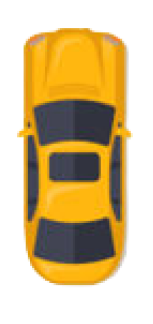
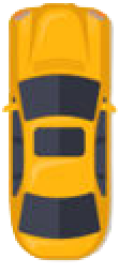
add images

diff --git a/car.js b/car.js
@@ -1,10 +1,9 @@
 class Car {
-   constructor(x, y, width, height, controlType, maxSpeed = 3) {
+   constructor(x, y, width, height, controlType, maxSpeed = 3, color = "blue") {
       this.x = x;
       this.y = y;
       this.width = width;
       this.height = height;
-      this.speedArray = [];
 
       this.speed = 0;
       this.acceleration = 0.08;
@@ -22,14 +21,35 @@ class Car {
       }
       this.polygon = this.#createPolygon();
       this.controls = new Controls(controlType);
+
+      this.img = new Image();
+      if (controlType !== "DUMMY") {
+         this.img.src = "./images/Auto.png";
+         console.log(this.controlType);
+      } else {
+         this.img.src = `./images/car (${Math.round(1+Math.random()*27)}).png`;
+      }
+      this.mask = document.createElement("canvas");
+      this.mask.width = width;
+      this.mask.height = height;
+
+      const maskCtx = this.mask.getContext("2d");
+      this.img.onload = () => {
+         maskCtx.fillStyle = color;
+         maskCtx.rect(0, 0, this.width, this.height);
+         maskCtx.fill();
+
+         maskCtx.globalCompositeOperation = "destination-atop";
+         maskCtx.drawImage(this.img, 0, 0, this.width, this.height);
+      };
    }
 
    update(roadBorders, traffic) {
       if (!this.damaged) {
          this.#move();
          this.polygon = this.#createPolygon();
-         this.damaged = this.#assessDamage(roadBorders, traffic);
       }
+      this.damaged = this.#assessDamage(roadBorders, traffic);
       if (this.sensor) {
          this.sensor.update(roadBorders, traffic);
          const offsets = this.sensor.readings.map((s) =>
@@ -44,8 +64,6 @@ class Car {
             this.controls.reverse = outputs[3];
          }
       }
-      this.speedArray = this.speedArray.slice(1, 10);
-      this.speedArray.push(this.speed);
    }
 
    #assessDamage(roadBorders, traffic) {
@@ -56,7 +74,7 @@ class Car {
       }
       for (let i = 0; i < traffic.length; i++) {
          if (polysIntersect(this.polygon, traffic[i].polygon)) {
-            // traffic[i].damaged = true;
+            traffic[i].damaged = true;
             return true;
          }
       }
@@ -134,18 +152,27 @@ class Car {
       this.y -= Math.cos(this.angle) * this.speed;
    }
 
-   draw(ctx, color, drawSensor = false) {
-      if (this.damaged) {
-         ctx.fillStyle = "gray";
-      } else {
-         ctx.fillStyle = color;
-      }
-      ctx.beginPath();
-      ctx.moveTo(this.polygon[0].x, this.polygon[0].y);
-      for (let i = 1; i < this.polygon.length; i++) {
-         ctx.lineTo(this.polygon[i].x, this.polygon[i].y);
-      }
-      ctx.fill();
+   draw(ctx, drawSensor = false) {
+      ctx.save();
+      ctx.translate(this.x, this.y);
+      ctx.rotate(-this.angle);
+      ctx.drawImage(
+         this.mask,
+         -this.width / 2,
+         -this.height / 2,
+         this.width,
+         this.height
+      );
+      ctx.globalCompositeOperation = "";
+
+      ctx.drawImage(
+         this.img,
+         -this.width / 2,
+         -this.height / 2,
+         this.width,
+         this.height
+      );
+      ctx.restore();
 
       if (this.sensor && drawSensor) this.sensor.draw(ctx);
    }

diff --git a/main.js b/main.js
@@ -116,41 +116,21 @@ function discard() {
 
 function generateCars(N, type, topSpeed) {
    let cars = [];
+   let height = carHeight;
+   let width = carWidth;
+   if (type !== "DUMMY") {
+      height = carHeight - 22;
+      width = carWidth - 15;
+   }
    for (let i = 1; i <= N; i++) {
       cars.push(
-         new Car(
-            road.getLaneCenter(1),
-            100,
-            carWidth,
-            carHeight,
-            type,
-            topSpeed
-         )
+         new Car(road.getLaneCenter(1), 100, width, height, type, topSpeed)
       );
    }
    return cars;
 }
 
-function checkStalking(car) {
-   if (car.speedArray.length > 3)
-      return (
-         car.angle == 0 &&
-         Math.round(car.speedArray.reduce((a, b) => a + b, 0)) == 2
-      );
-   return false;
-}
-
-function checkCars(y) {
-   for (let i = 0; i < cars.length; i++) {
-      if (!cars[i].damaged && cars[i].y < y + 400 && !checkStalking(cars[i])) {
-         return true;
-      }
-   }
-   return false;
-}
-
-let c = 0;
-function animate(time) {
+function animate() {
    for (let i = 0; i < traffic.length; i++) {
       traffic[i].update(road.borders, []);
    }
@@ -165,13 +145,6 @@ function animate(time) {
       minY = Math.min(...cars.map((c) => c.y));
       return c.y == minY;
    });
-   if (time % 1000 && !checkStalking(bestCar)) {
-      // save();
-   }
-   if (!checkCars(minY) && c == 0) {
-      window.location.reload();
-      c++;
-   }
 
    carCanvas.height = window.innerHeight;
    networkCanvas.height = window.innerHeight;
@@ -182,16 +155,16 @@ function animate(time) {
    road.draw(carCtx);
 
    for (let i = 0; i < traffic.length; i++) {
-      traffic[i].draw(carCtx, "red");
+      traffic[i].draw(carCtx);
    }
 
    carCtx.globalAlpha = 0.2;
    for (let i = 0; i < cars.length; i++) {
       const car = cars[i];
-      car.draw(carCtx, "blue");
+      car.draw(carCtx);
    }
    carCtx.globalAlpha = 1;
-   bestCar.draw(carCtx, "blue", true);
+   bestCar.draw(carCtx);
 
    carCtx.restore();
 

diff --git a/utils.js b/utils.js
@@ -42,7 +42,6 @@ function polysIntersect(poly1, poly2) {
 function getRGBA(value) {
    const alpha = Math.abs(value);
    const R = value < 0 ? 0 : 255;
-   // const G = R;
    const G = 120;
    const B = value > 0 ? 0 : 255;
    return `rgba(${R},${G},${B},${alpha})`;
